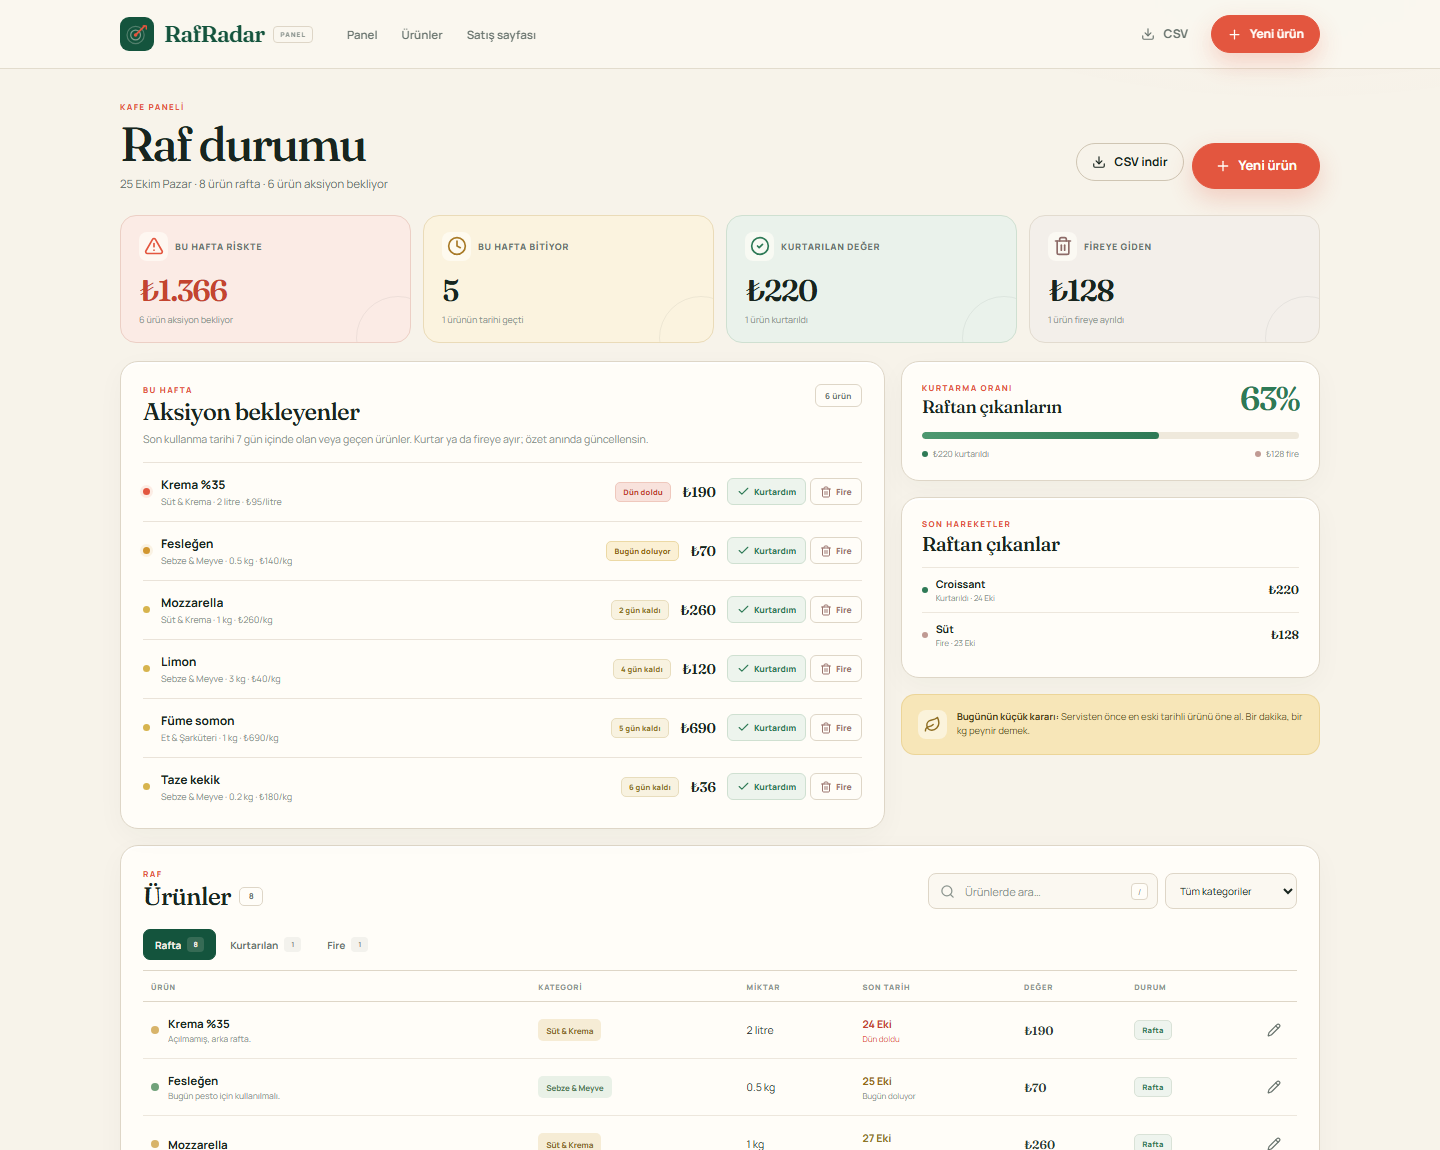
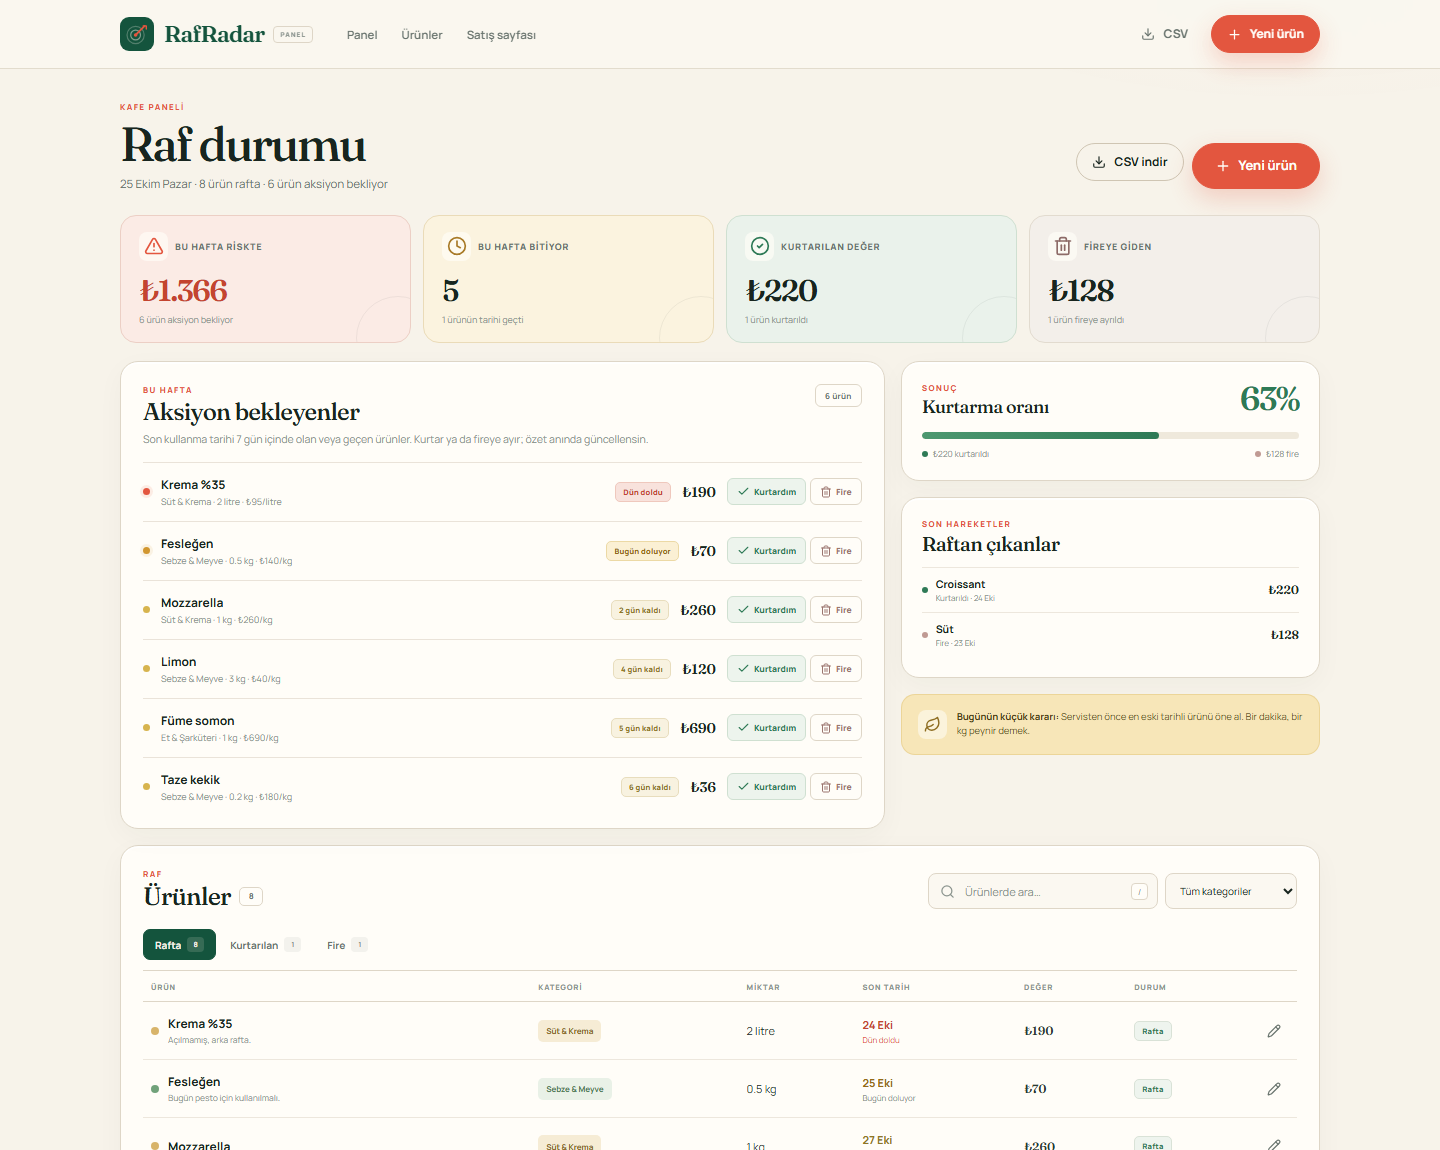
style: hero gercekleri, fiyat guven satiri ve panel cilasi

diff --git a/web/src/styles.css b/web/src/styles.css
@@ -463,6 +463,20 @@ tr:focus-visible {
   letter-spacing: -0.05em;
 }
 
+.lp-hero h1 em {
+  display: inline;
+  padding: 0 0.035em;
+  background: linear-gradient(
+    180deg,
+    transparent 68%,
+    rgba(240, 199, 94, 0.42) 68%,
+    rgba(240, 199, 94, 0.42) 93%,
+    transparent 93%
+  );
+  -webkit-box-decoration-break: clone;
+  box-decoration-break: clone;
+}
+
 .lp-lede {
   max-width: 500px;
   margin-top: 24px;
@@ -507,6 +521,45 @@ tr:focus-visible {
   margin-top: 30px;
   font-size: 11px;
   color: var(--muted);
+}
+
+.lp-hero-facts {
+  display: flex;
+  align-items: stretch;
+  gap: 0;
+  margin-top: 26px;
+  padding-top: 15px;
+  border-top: 1px solid var(--line);
+}
+
+.lp-hero-facts > div {
+  display: flex;
+  flex-direction: column;
+  gap: 2px;
+  padding: 0 20px;
+  border-left: 1px solid var(--line);
+}
+
+.lp-hero-facts > div:first-child {
+  padding-left: 0;
+  border-left: 0;
+}
+
+.lp-hero-facts strong {
+  font-family: var(--serif);
+  font-size: 19px;
+  font-weight: 600;
+  letter-spacing: -0.03em;
+  color: var(--forest);
+  line-height: 1;
+}
+
+.lp-hero-facts span {
+  font-size: 7.5px;
+  font-weight: 700;
+  letter-spacing: 0.1em;
+  text-transform: uppercase;
+  color: var(--muted-2);
 }
 
 .audience-mark {
@@ -903,7 +956,27 @@ tr:focus-visible {
 }
 
 .product-shot-wrap {
+  position: relative;
   margin-top: 44px;
+}
+
+.shot-badge {
+  position: absolute;
+  z-index: 2;
+  top: -12px;
+  right: 26px;
+  display: inline-flex;
+  align-items: center;
+  gap: 6px;
+  height: 27px;
+  padding: 0 11px;
+  border-radius: 999px;
+  background: var(--forest);
+  color: var(--cream);
+  font-size: 7px;
+  font-weight: 800;
+  letter-spacing: 0.15em;
+  box-shadow: 0 8px 20px rgba(20, 84, 61, 0.2);
 }
 
 .product-shot {
@@ -1239,12 +1312,40 @@ tr:focus-visible {
   background: var(--cream-2);
 }
 
+.pricing-trust {
+  display: flex;
+  align-items: center;
+  justify-content: center;
+  flex-wrap: wrap;
+  gap: 7px;
+  margin-top: 20px;
+}
+
+.pricing-trust span {
+  display: inline-flex;
+  align-items: center;
+  gap: 5px;
+  height: 27px;
+  padding: 0 10px;
+  border: 1px solid var(--line);
+  border-radius: 999px;
+  background: rgba(255, 253, 248, 0.65);
+  font-size: 8px;
+  font-weight: 700;
+  letter-spacing: 0.03em;
+  color: var(--muted);
+}
+
+.pricing-trust svg {
+  color: var(--leaf);
+}
+
 .pricing-grid {
   display: grid;
   grid-template-columns: repeat(3, 1fr);
   gap: 16px;
   align-items: stretch;
-  margin-top: 52px;
+  margin-top: 30px;
 }
 
 .price-card {
@@ -1420,6 +1521,16 @@ tr:focus-visible {
 
 .faq-item {
   border-bottom: 1px solid var(--line);
+  border-radius: 10px;
+  transition: background 0.18s ease, box-shadow 0.18s ease, padding 0.18s ease;
+}
+
+.faq-item[open] {
+  margin: 4px 0;
+  padding: 0 14px;
+  border-bottom-color: transparent;
+  background: var(--paper);
+  box-shadow: 0 6px 24px rgba(38, 45, 38, 0.06);
 }
 
 .faq-item summary {
@@ -1736,6 +1847,12 @@ tr:focus-visible {
   border-radius: 16px;
   background: var(--paper);
   overflow: hidden;
+  transition: transform 0.18s ease, box-shadow 0.18s ease;
+}
+
+.summary-card:hover {
+  transform: translateY(-2px);
+  box-shadow: 0 14px 30px rgba(38, 45, 38, 0.08);
 }
 
 .summary-card::after {
@@ -2385,7 +2502,7 @@ tr:focus-visible {
 .item-table {
   width: 100%;
   border-collapse: collapse;
-  font-size: 10.5px;
+  font-size: 11px;
 }
 
 .item-table th {
@@ -2437,7 +2554,7 @@ tr:focus-visible {
   overflow: hidden;
   text-overflow: ellipsis;
   white-space: nowrap;
-  font-size: 11.5px;
+  font-size: 12px;
   font-weight: 700;
   color: var(--ink);
 }

diff --git a/web/src/landing/LandingPage.tsx b/web/src/landing/LandingPage.tsx
@@ -158,6 +158,20 @@ export function LandingPage() {
                 </span>
                 3-15 kişilik bağımsız kafeler ve pastaneler için
               </p>
+              <div className="lp-hero-facts" aria-label="Ürün gerçekleri">
+                <div>
+                  <strong>10 sn</strong>
+                  <span>ortalama kayıt</span>
+                </div>
+                <div>
+                  <strong>7 gün</strong>
+                  <span>risk penceresi</span>
+                </div>
+                <div>
+                  <strong>1 ekran</strong>
+                  <span>tüm raf</span>
+                </div>
+              </div>
             </div>
 
             <div className="lp-hero-visual" aria-label="RafRadar ürün ekranı önizlemesi">
@@ -288,6 +302,10 @@ export function LandingPage() {
             </div>
 
             <div className="product-shot-wrap">
+              <span className="shot-badge">
+                <span className="live-dot" />
+                GERÇEK EKRAN
+              </span>
               <div className="product-shot">
                 <div className="hero-frame-bar">
                   <i />
@@ -482,6 +500,21 @@ export function LandingPage() {
                 <em>net bir plan.</em>
               </h2>
               <p>14 gün ücretsiz. Kredi kartı istemiyoruz. İstediğin an iptal et.</p>
+            </div>
+
+            <div className="pricing-trust">
+              <span>
+                <Check size={13} />
+                14 gün ücretsiz
+              </span>
+              <span>
+                <Check size={13} />
+                Kredi kartı yok
+              </span>
+              <span>
+                <Check size={13} />
+                İstediğin an iptal
+              </span>
             </div>
 
             <div className="pricing-grid">

diff --git a/web/src/product/ProductPage.tsx b/web/src/product/ProductPage.tsx
@@ -405,8 +405,8 @@ export function ProductPage() {
                 <section className="panel recovery-panel">
                   <div className="recovery-head">
                     <div>
-                      <p className="panel-kicker">KURTARMA ORANI</p>
-                      <h2>Raftan çıkanların</h2>
+                      <p className="panel-kicker">SONUÇ</p>
+                      <h2>Kurtarma oranı</h2>
                     </div>
                     <strong className="recovery-rate">{recoveryRate}%</strong>
                   </div>
